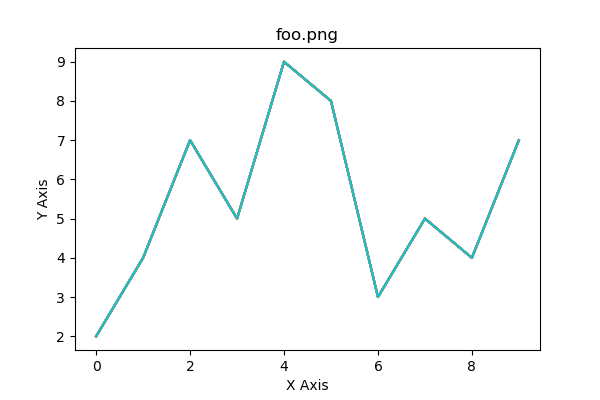
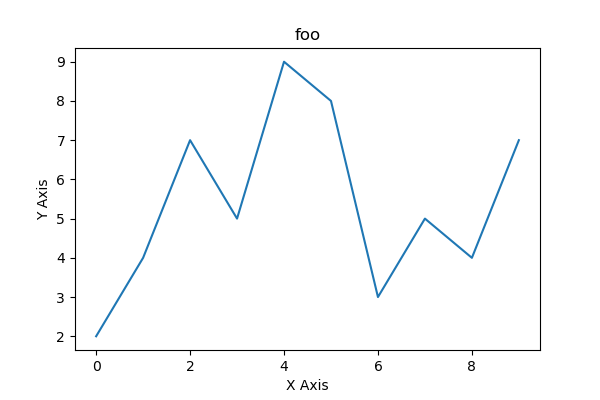
Graph still not updating

diff --git a/icesat2/gui/gui.py b/icesat2/gui/gui.py
@@ -19,6 +19,7 @@ from kivy.properties import ObjectProperty
 from kivy.uix.button import Button
 from kivy.uix.dropdown import DropDown
 from kivy.uix.floatlayout import FloatLayout
+from kivy.uix.image import Image
 from kivy.uix.popup import Popup
 from kivy.uix.label import Label
 from kivy.uix.screenmanager import Screen, ScreenManager
@@ -133,16 +134,19 @@ class ListButton(Button):
     side_width_buffer = prop.NumericProperty(20)
 
     def on_release(self):
-        """Jacob- Calls the plot_graph function on the sample data foo.csv which is located in
-        the csv_data_collection folder, graph_png_export then creates a png of the 
-        graph which is stored in graph_images to be displayed later."""
+        """Jacob- Calls the plot_graph function on the sample data foo.csv 
+        which is located in the csv_data_collection folder, graph_png_export 
+        then creates a png of the graph which is stored in graph_images to be
+        displayed later."""
 
-        #getCurrDataSet() is not working. It is returning No data set selected
-        #even when currentDataset has been set.
         data_name = "resources/csv_data_collection/" + self.text
-        image_name = self.text[:-3] + "png"
+        image_name = self.text[:-4]
 
-        graph_png_export.plot_graph(graph_png_export.read_data(data_name), image_name)
+        Main_Window.set_graph(self, image_name)
+        Main_Window.update_graph(self)
+
+        graph_data = graph_png_export.read_data(data_name)
+        graph_png_export.plot_graph(graph_data, image_name)
 
 
 class CoordinateTextInput(TextInput):
@@ -443,7 +447,6 @@ class DataSetRefreshButton(Button):
     def doTheThing(self):
         print("Doing the thing")
 
-
 class Main_Window(Screen):
     def __init__(self, **kw):
         super(Main_Window, self).__init__(**kw)
@@ -452,6 +455,17 @@ class Main_Window(Screen):
         os.startfile("resources\\manuals\\user_manual.pdf")
     def deleteCurrent(self):
         os.remove("resources\\csv")
+
+    current_data = "No data selected"
+
+    def set_graph(self, set_name):
+        current_data = "resources\\graph_images\\" + set_name + ".png"
+        print (current_data)
+
+    def update_graph(self):
+        img = Image(source='currant_data')
+        img.reload()
+        return img
 
 class Graph_Window(Screen):
     def __init__(self, **kw):

diff --git a/icesat2/graph/graph_png_export.py b/icesat2/graph/graph_png_export.py
@@ -1,8 +1,16 @@
-from kivy.garden.matplotlib.backend_kivyagg import FigureCanvasKivyAgg
-from kivy.app import App
-from kivy.uix.boxlayout import BoxLayout
-import matplotlib.pyplot as plt
 import csv
+import glob
+import os
+
+
+import kivy
+import matplotlib.pyplot as plt
+from kivy.core.window import Window
+from kivy.garden.graph import Graph, MeshLinePlot
+from kivy.garden.matplotlib.backend_kivyagg import FigureCanvasKivyAgg
+from kivy.properties import ObjectProperty
+from kivy.uix.widget import Widget
+
 
 # Reads from CSV file and adds them to a list csvInput
 def read_data(file_name: str) -> list:
@@ -21,3 +29,4 @@ def plot_graph(csv_input: list, file_name: str) -> plt.plot:
     plt.ylabel('Y Axis')
     plt.xlabel('X Axis')
     plt.savefig('resources\\graph_images\\' + file_name, dpi = 100)
+    plt.close()
